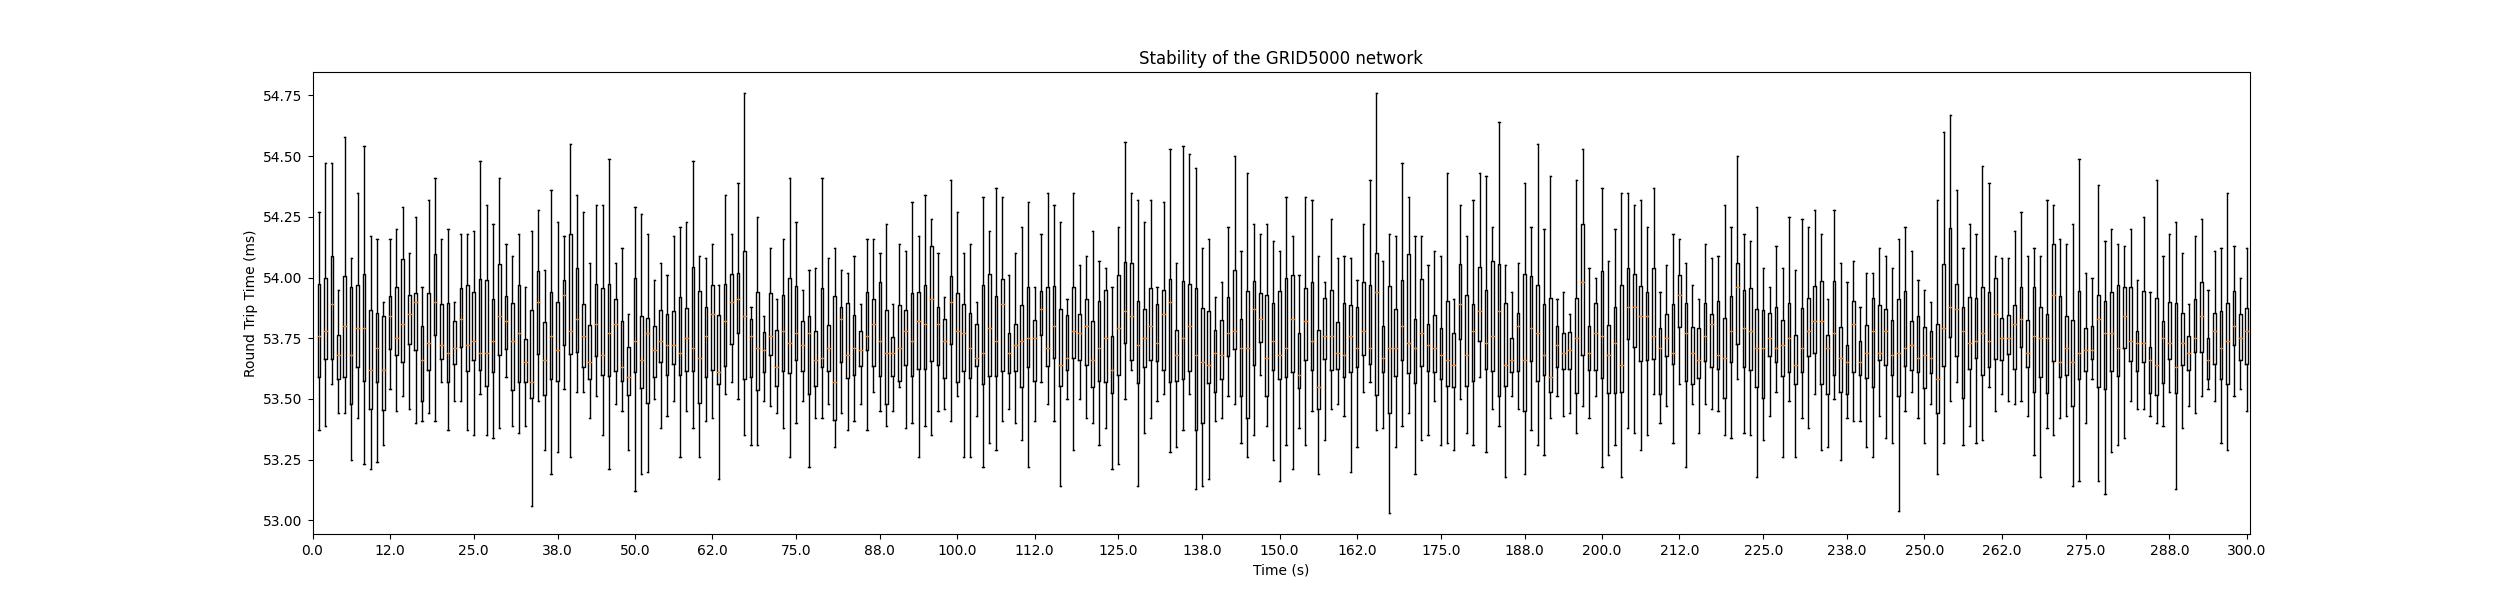
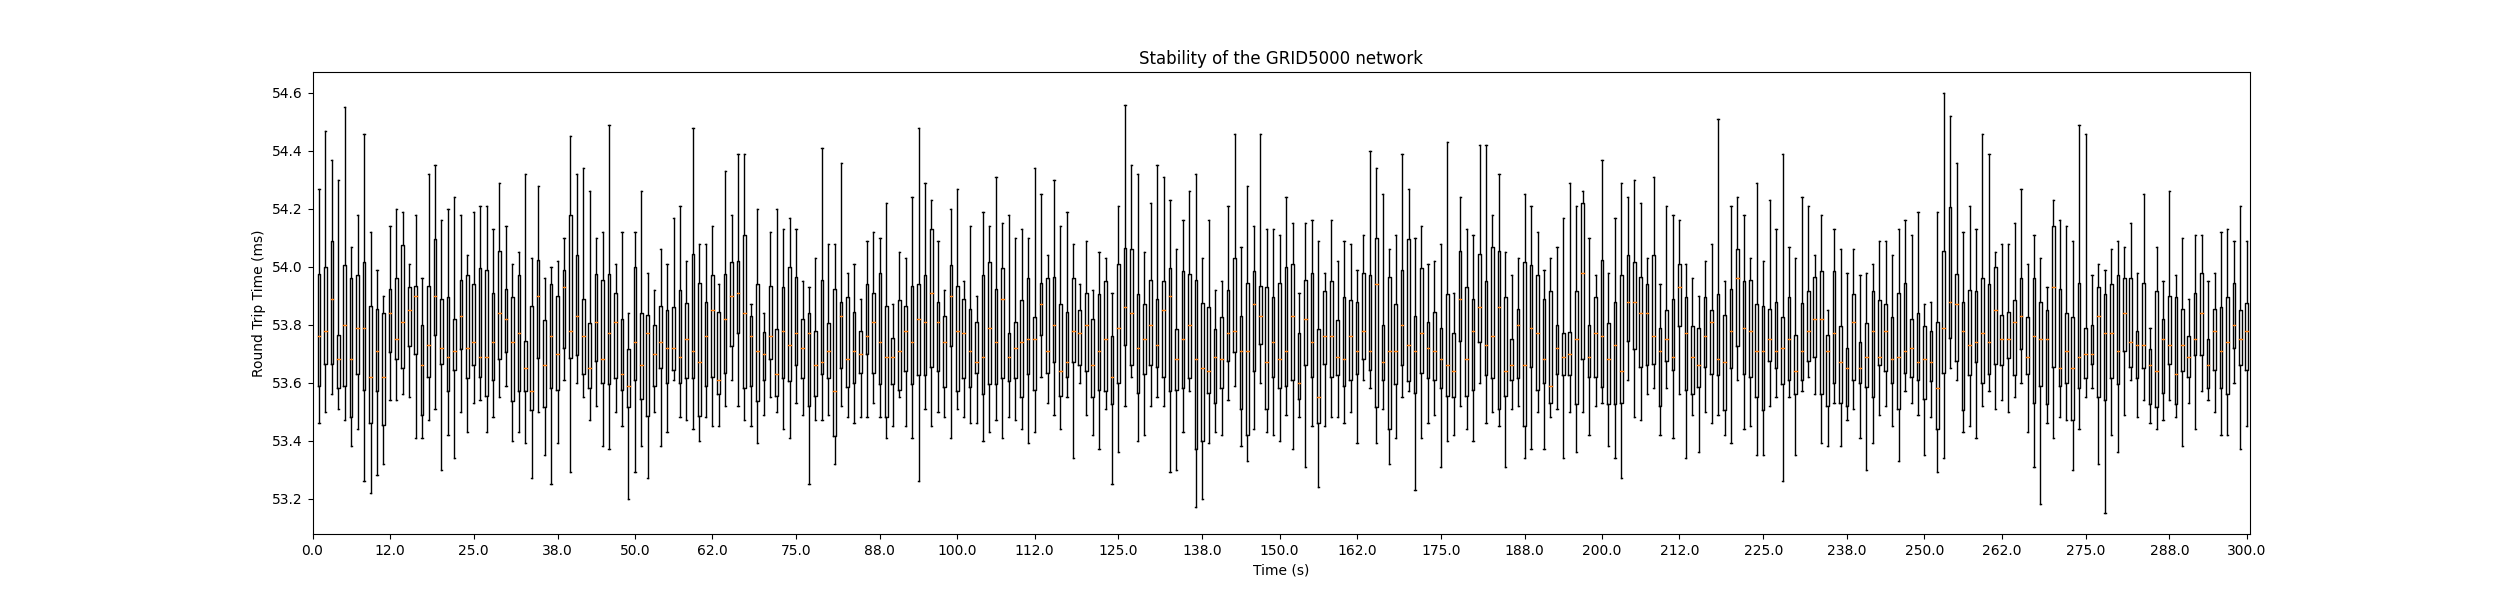
chore: added the 5th and 95th percentile to boxplots

diff --git a/scripts/probing-analysis.py b/scripts/probing-analysis.py
@@ -31,7 +31,7 @@ if __name__ == "__main__":
     ax.set_xlabel('Time (s)')
     ax.set_ylabel('Round Trip Time (ms)')
 
-    bp = ax.boxplot(results, showfliers=False, widths=0.4)
+    bp = ax.boxplot(results, showfliers=False, widths=0.4, whis=(5, 95))
     plt.xticks(np.round(np.linspace(0, len(results), num=25), 0), np.round(np.linspace(0, len(results), num=25), 0))
     
     plt.savefig('probing.png')
